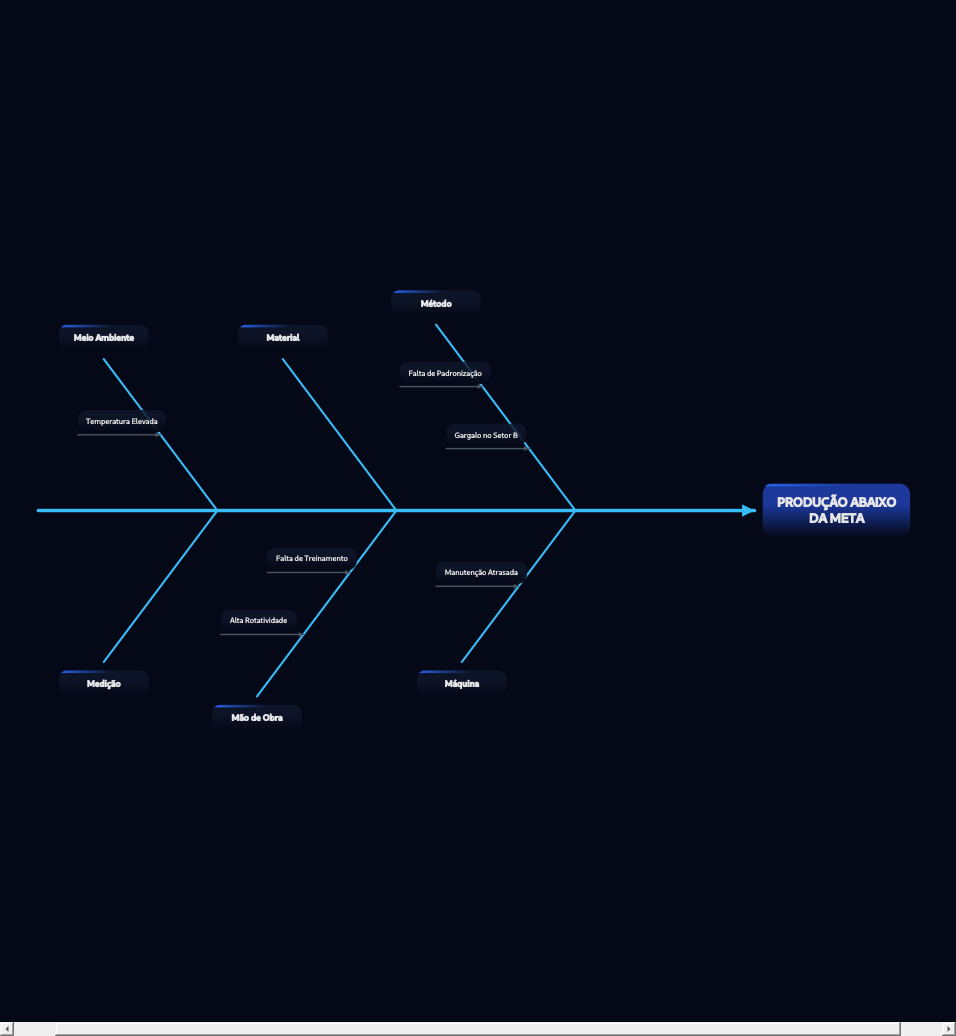
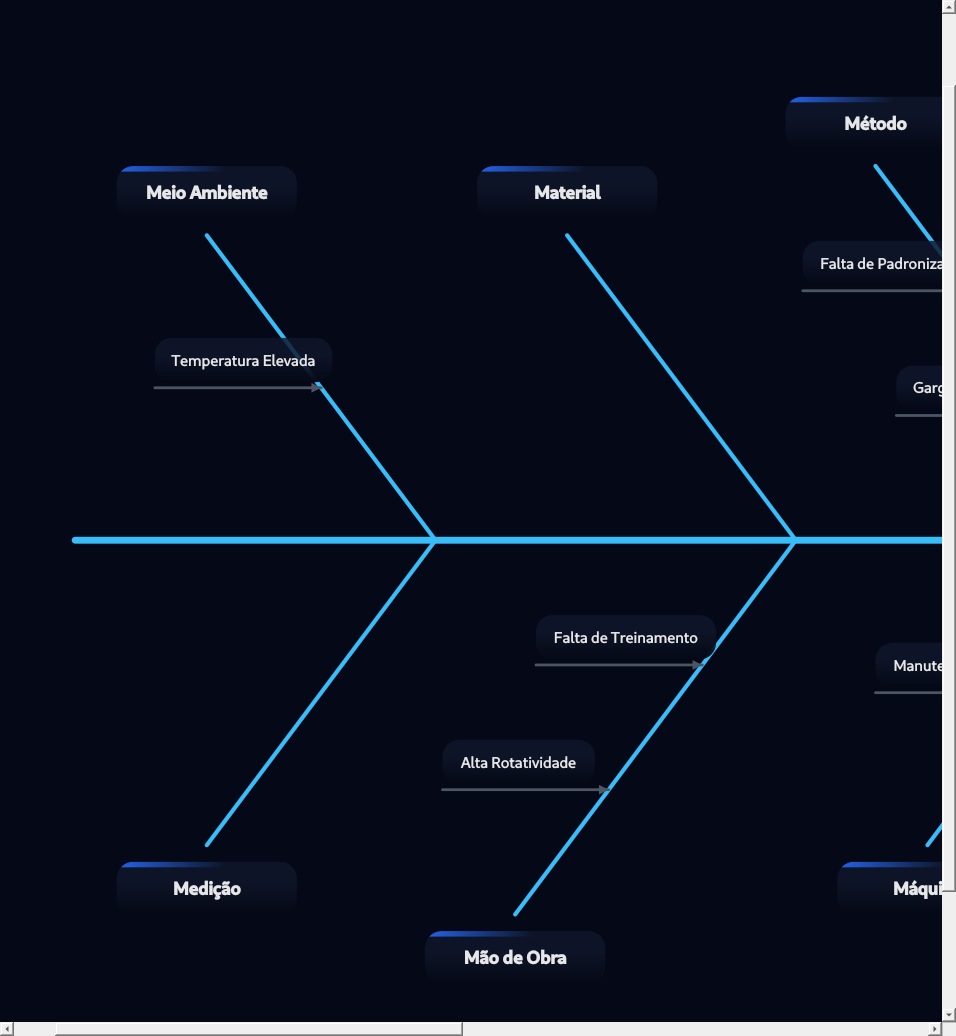
docs: update README and replace ishikawa_dark screenshot

diff --git a/README.md b/README.md
@@ -1,23 +1,23 @@
 ```
-╔════════════════════════════════════════════════════════════════════╗
-║                                                                    ║
+╔══════════════════════════════════════════════════════════════════════╗
+║                                                                      ║
 ║   ██████╗ ██████╗  ██████╗ ███████╗███╗   ██╗ ██████╗              ║
 ║   ██╔══██╗██╔══██╗██╔═══██╗██╔════╝████╗  ██║██╔════╝              ║
 ║   ██████╔╝██████╔╝██║   ██║█████╗  ██╔██╗ ██║██║  ███╗             ║
 ║   ██╔═══╝ ██╔══██╗██║   ██║██╔══╝  ██║╚██╗██║██║   ██║             ║
 ║   ██║     ██║  ██║╚██████╔╝███████╗██║ ╚████║╚██████╔╝             ║
-║   ╚═╝     ╚═╝  ╚═╝ ╚═════╝ ╚══════╝╚═╝  ╚═══╝ ╚═════╝              ║
-║                                                                    ║
+║   ╚═╝     ╚═╝  ╚═╝ ╚═════╝ ╚══════╝╚═╝  ╚═══╝ ╚═════╝             ║
+║                                                                      ║
 ║             ███████╗██╗   ██╗██╗████████╗███████╗                  ║
 ║             ██╔════╝██║   ██║██║╚══██╔══╝██╔════╝                  ║
 ║             ███████╗██║   ██║██║   ██║   █████╗                    ║
 ║             ╚════██║██║   ██║██║   ██║   ██╔══╝                    ║
 ║             ███████║╚██████╔╝██║   ██║   ███████╗                  ║
 ║             ╚══════╝ ╚═════╝ ╚═╝   ╚═╝   ╚══════╝                  ║
-║                                                                    ║
-║          Industrial Engineering & Project Management               ║
-║                    Professional Suite  v1.0                        ║
-╚════════════════════════════════════════════════════════════════════╝
+║                                                                      ║
+║          Industrial Engineering & Project Management                 ║
+║                    Professional Suite  v1.0                          ║
+╚══════════════════════════════════════════════════════════════════════╝
 ```
 
 > **ProEng** e uma plataforma de engenharia industrial de ponta, desenhada para unificar o planejamento tecnico, a modelagem de processos e a gestao estrategica em um unico ambiente visual de alta fidelidade.
@@ -72,25 +72,25 @@ Todos os modulos do ProEng (Flowsheet, BPMN, etc.) herdam da `BaseModule`. Esta 
 
 ```
 PROENG CORE ARCHITECTURE
-┌───────────────────────────────────────────────────────────────┐
-│  APPLICATION LAYER                                            │
-│  ┌──────────────┐  ┌──────────────┐  ┌──────────────────────┐ │
-│  │  main_app.py │  │  welcome.py  │  │  selection_screen.py │ │
-│  └──────────────┘  └──────────────┘  └──────────────────────┘ │
-├───────────────────────────────────────────────────────────────┤
-│  CORE ENGINE                                                  │
+┌─────────────────────────────────────────────────────────────────┐
+│  APPLICATION LAYER                                              │
+│  ┌──────────────┐  ┌──────────────┐  ┌──────────────────────┐  │
+│  │  main_app.py │  │  welcome.py  │  │  selection_screen.py │  │
+│  └──────────────┘  └──────────────┘  └──────────────────────┘  │
+├─────────────────────────────────────────────────────────────────┤
+│  CORE ENGINE                                                    │
 │  ┌──────────┐ ┌──────────┐ ┌──────────┐ ┌────────────────┐    │
 │  │ themes   │ │  utils   │ │ toolbar  │ │  base_module   │    │
 │  └──────────┘ └──────────┘ └──────────┘ └────────────────┘    │
-├───────────────────────────────────────────────────────────────┤
-│  MODULE LAYER                                                 │
+├─────────────────────────────────────────────────────────────────┤
+│  MODULE LAYER                                                   │
 │  ┌──────────┐ ┌──────────┐ ┌──────────┐ ┌────────────────┐    │
 │  │flowsheet │ │   bpmn   │ │   eap    │ │    canvas      │    │
 │  └──────────┘ └──────────┘ └──────────┘ └────────────────┘    │
-│  ┌──────────┐ ┌──────────┐                                    │
-│  │ishikawa  │ │  w5h2    │                                    │
-│  └──────────┘ └──────────┘                                    │
-└───────────────────────────────────────────────────────────────┘
+│  ┌──────────┐ ┌──────────┐                                     │
+│  │ishikawa  │ │  w5h2    │                                     │
+│  └──────────┘ └──────────┘                                     │
+└─────────────────────────────────────────────────────────────────┘
 ```
 
 ### Estrutura de Diretorios Detalhada
@@ -263,7 +263,7 @@ O ProEng segmenta as causas em 6 categorias pre-definidas:
 └─────────────────────────────────────────────────────────────────┘
 ```
 
-| Modulo | Tema Dark | Tema Light  |
+| Modulo | Tema Dark (Premium) | Tema Light (Corporativo) |
 | :--- | :---: | :---: |
 | **Welcome Screen** | ![Welcome Dark](proeng/resources/screenshots/welcome_dark.png) | ![Welcome Light](proeng/resources/screenshots/welcome_light.png) |
 | **Flowsheet (PFD)** | ![Flowsheet Dark](proeng/resources/screenshots/flowsheet_dark.png) | ![Flowsheet Light](proeng/resources/screenshots/flowsheet_light.png) |
